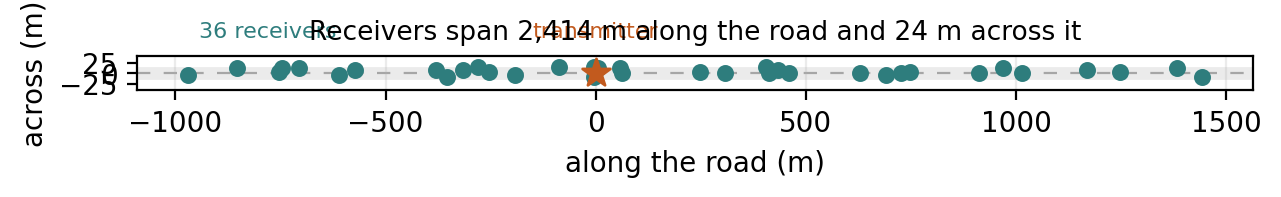
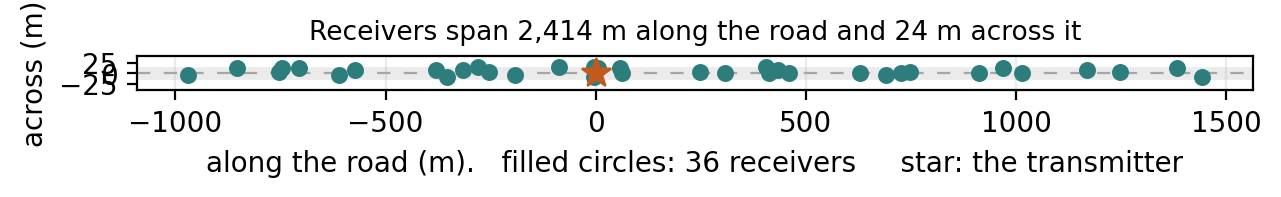
Name the marks in the axis label where nothing can collide with them
The geometry plot is equal aspect over a hundred to one span, which is the whole
point of it, and that leaves no vertical room for anything. A legend inside the
axes covered the data, one below collided with the axis label, and annotations
above collided with the title. The marks are named in the label itself, which has
room by construction, and the title carries the measurement.

Changed region(s): [[0.1561, 0.7614, 0.9368, 0.9137], [0.4059, 0.1218, 0.5308, 0.2132], [0.1561, 0.0914, 0.2498, 0.2132]]

diff --git a/analysis/make_figures.py b/analysis/make_figures.py
@@ -216,15 +216,11 @@ def fig_geometry():
     ax.axhline(0, color="0.65", lw=0.8, ls=(0, (6, 6)), zorder=1)
     ax.scatter(rx[:, 0], rx[:, 1], s=26, c="#2e7d7d", zorder=3)
     ax.scatter([0], [0], s=110, marker="*", c="#c25a1e", zorder=4)
-    # Annotated in place rather than in a legend. On an equal-aspect plot this
-    # flat there is no room inside the axes for a legend box, and putting one
-    # below collides with the x label.
-    ax.annotate("transmitter", (0, 0), textcoords="offset points",
-                xytext=(0, 13), ha="center", fontsize=8, color="#c25a1e")
-    ax.annotate(f"{len(rx)} receivers", (rx[:, 0].min(), 0),
-                textcoords="offset points", xytext=(4, 13), ha="left",
-                fontsize=8, color="#2e7d7d")
-    ax.set_xlabel("along the road (m)")
+    # The marks are named in the axis label. On an equal-aspect plot this flat
+    # there is no room inside the axes for a legend, annotations collide with the
+    # title, and a legend below collides with the label itself.
+    ax.set_xlabel(f"along the road (m).   filled circles: {len(rx)} receivers"
+                  f"     star: the transmitter")
     ax.set_ylabel("across (m)")
     ax.set_aspect("equal")
     ax.set_ylim(-hw * 3.4, hw * 3.4)
